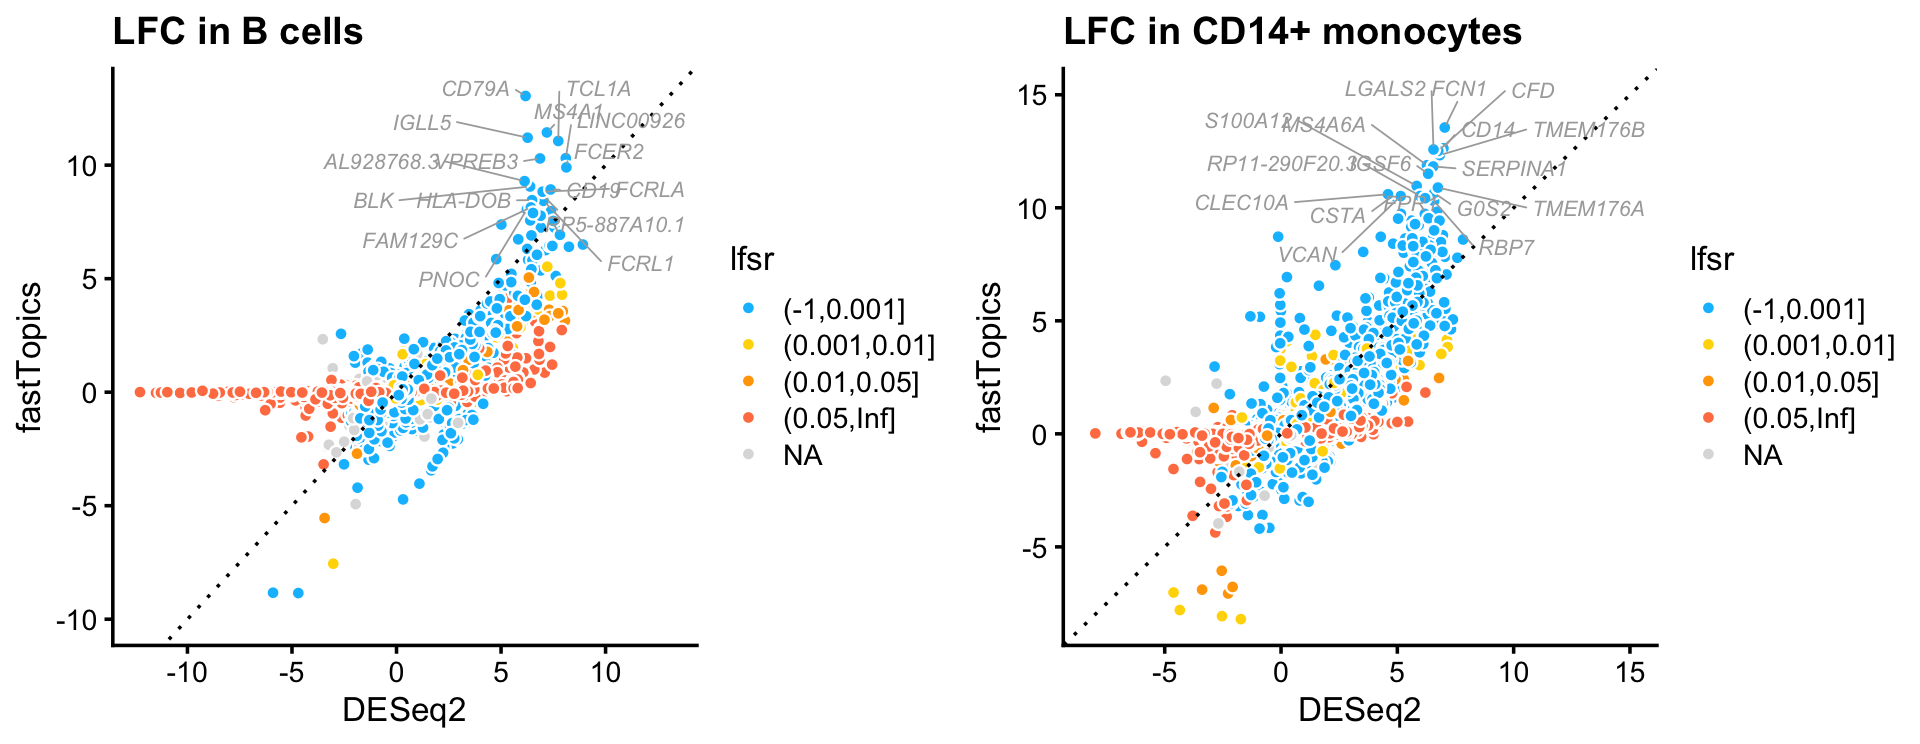
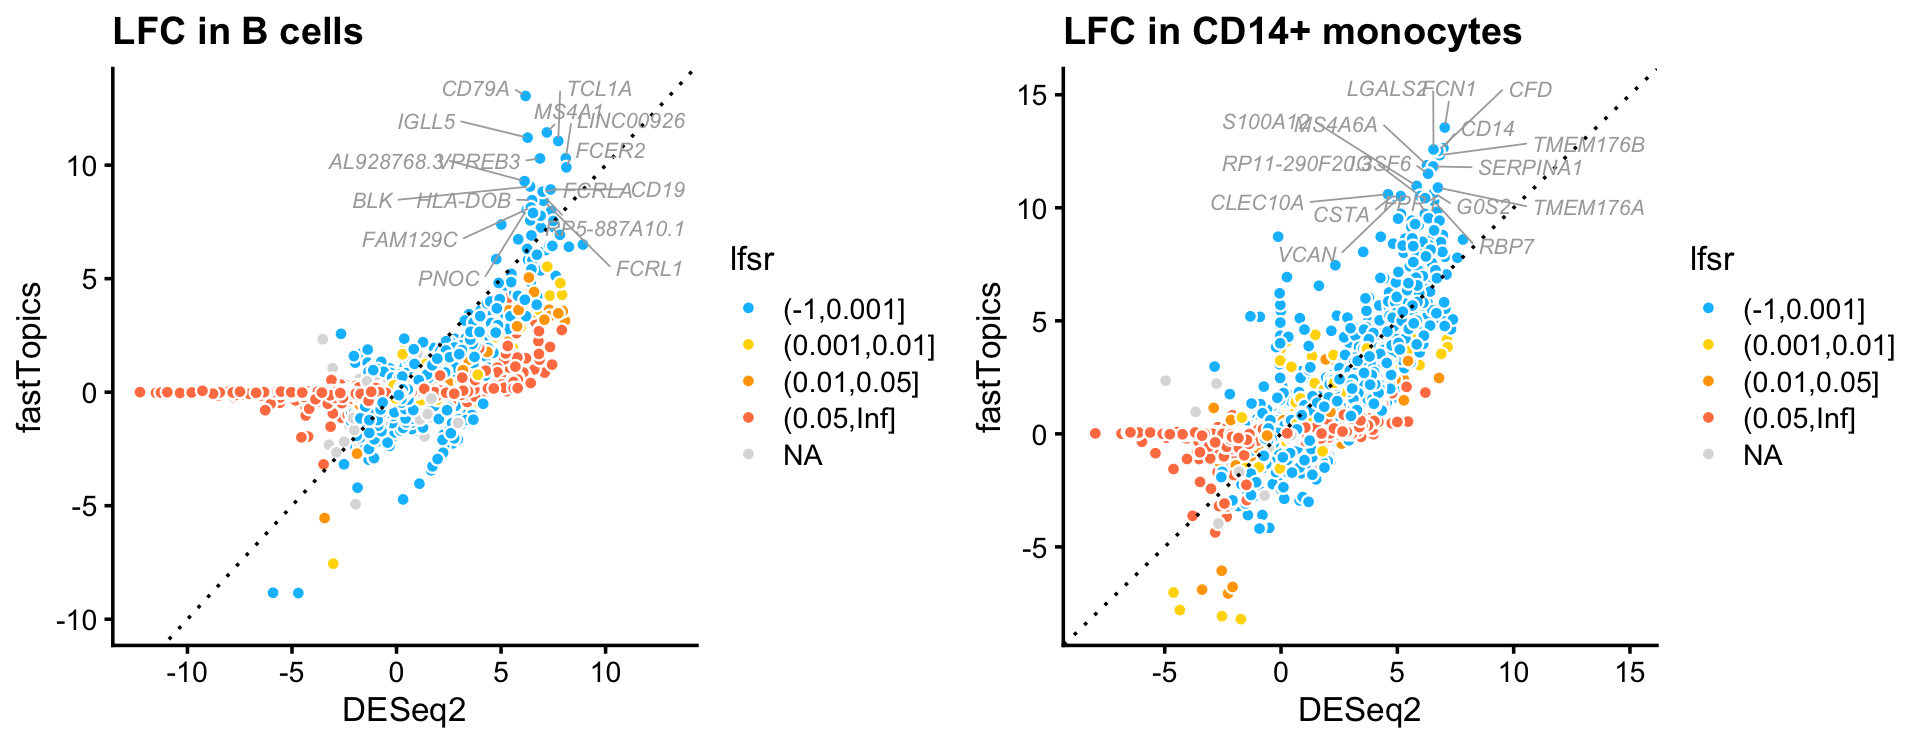
Updated the interactive volcano plots in de_analysis_purified_pbmc analysis.

diff --git a/docs/de_analysis_purified_pbmc.html b/docs/de_analysis_purified_pbmc.html
@@ -414,16 +414,16 @@ This reproducible <a href="http://rmarkdown.rstudio.com">R Markdown</a> analysis
 <div class="panel panel-default">
 <div class="panel-heading">
 <p class="panel-title">
-<a data-toggle="collapse" data-parent="#workflowr-checks" href="#strongRepositoryversionstrongahrefhttpsgithubcomstephenslabsinglecelltopicstree4aac42e3a7743981f7dd6d23c6e7d5aa73739eb9targetblank4aac42ea"> <span class="glyphicon glyphicon-ok text-success" aria-hidden="true"></span> <strong>Repository version:</strong> <a href="https://github.com/stephenslab/single-cell-topics/tree/4aac42e3a7743981f7dd6d23c6e7d5aa73739eb9" target="_blank">4aac42e</a> </a>
+<a data-toggle="collapse" data-parent="#workflowr-checks" href="#strongRepositoryversionstrongahrefhttpsgithubcomstephenslabsinglecelltopicstreee15c65593821120ed98f2652a42b4392e6584fd0targetblanke15c655a"> <span class="glyphicon glyphicon-ok text-success" aria-hidden="true"></span> <strong>Repository version:</strong> <a href="https://github.com/stephenslab/single-cell-topics/tree/e15c65593821120ed98f2652a42b4392e6584fd0" target="_blank">e15c655</a> </a>
 </p>
 </div>
[2 lines of base64/hex data omitted]
 <div class="panel-body">
 <p>
 Great! You are using Git for version control. Tracking code development and connecting the code version to the results is critical for reproducibility.
 </p>
 <p>
-The results in this page were generated with repository version <a href="https://github.com/stephenslab/single-cell-topics/tree/4aac42e3a7743981f7dd6d23c6e7d5aa73739eb9" target="_blank">4aac42e</a>. See the <em>Past versions</em> tab to see a history of the changes made to the R Markdown and HTML files.
+The results in this page were generated with repository version <a href="https://github.com/stephenslab/single-cell-topics/tree/e15c65593821120ed98f2652a42b4392e6584fd0" target="_blank">e15c655</a>. See the <em>Past versions</em> tab to see a history of the changes made to the R Markdown and HTML files.
 </p>
 <p>
 Note that you need to be careful to ensure that all relevant files for the analysis have been committed to Git prior to generating the results (you can use <code>wflow_publish</code> or <code>wflow_git_commit</code>). workflowr only checks the R Markdown file, but you know if there are other scripts or data files that it depends on. Below is the status of the Git repository when the results were generated:
@@ -446,7 +446,6 @@ Ignored files:
     Ignored:    output/pulseseq/rds/
 
 Untracked files:
-    Untracked:  .DS_Store
     Untracked:  analysis/de_analysis_detailed_look_cache/
     Untracked:  analysis/de_analysis_detailed_look_more_cache/
     Untracked:  plots/
@@ -488,6 +487,57 @@ Message
 </tr>
 </thead>
 <tbody>
+<tr>
+<td>
+Rmd
+</td>
+<td>
+<a href="https://github.com/stephenslab/single-cell-topics/blob/e15c65593821120ed98f2652a42b4392e6584fd0/analysis/de_analysis_purified_pbmc.Rmd" target="_blank">e15c655</a>
+</td>
+<td>
+Peter Carbonetto
+</td>
+<td>
+2021-12-10
+</td>
+<td>
+workflowr::wflow_publish(“de_analysis_purified_pbmc.Rmd”, verbose = TRUE)
+</td>
+</tr>
+<tr>
+<td>
+Rmd
+</td>
+<td>
+<a href="https://github.com/stephenslab/single-cell-topics/blob/ef4caa1e9b9a929cfe2a4662a71516a751a08939/analysis/de_analysis_purified_pbmc.Rmd" target="_blank">ef4caa1</a>
+</td>
+<td>
+Peter Carbonetto
+</td>
+<td>
+2021-12-10
+</td>
+<td>
+Small fix.
+</td>
+</tr>
+<tr>
+<td>
+html
+</td>
+<td>
+<a href="https://rawcdn.githack.com/stephenslab/single-cell-topics/82324193d37d909ff5cef954da09c518af9b6e0a/docs/de_analysis_purified_pbmc.html" target="_blank">8232419</a>
+</td>
+<td>
+Peter Carbonetto
+</td>
+<td>
+2021-12-10
+</td>
+<td>
+Revised the volcano plots in the de_analysis_purified_pbmc analysis.
+</td>
+</tr>
 <tr>
 <td>
 Rmd
@@ -1498,10 +1548,12 @@ Peter Carbonetto
 </div>
 </div>
 <p>Moving forward, when the two <em>z</em>-scores disagree, we use the one that is nearer to zero.</p>
-<pre class="r"><code>de             &lt;- de1[c(&quot;f0&quot;,&quot;postmean&quot;,&quot;z&quot;,&quot;lfsr&quot;)]
+<pre class="r"><code>de             &lt;- de1[c(&quot;f0&quot;,&quot;lower&quot;,&quot;postmean&quot;,&quot;upper&quot;,&quot;z&quot;,&quot;lfsr&quot;)]
 class(de)      &lt;- c(&quot;topic_model_de_analysis&quot;,&quot;list&quot;)
 i              &lt;- which(abs(de2$z) &lt; abs(de1$z))
+de$lower[i]    &lt;- de2$lower[i]
 de$postmean[i] &lt;- de2$postmean[i]
+de$upper[i]    &lt;- de2$upper[i]
 de$z[i]        &lt;- de2$z[i]
 de$lfsr[i]     &lt;- de$lfsr[i]</code></pre>
 </div>
@@ -1527,7 +1579,9 @@ rm(deseq2)</code></pre>
 <p>Since we filtered out a few lowly expressed genes before running DESeq2, we subset the fastTopics results to match up with DESeq2.</p>
 <pre class="r"><code>rows        &lt;- match(rownames(deseq$z),rownames(de$z))
 de$f0       &lt;- de$f0[rows]
+de$lower    &lt;- de$lower[rows,]
 de$postmean &lt;- de$postmean[rows,]
+de$upper    &lt;- de$upper[rows,]
 de$z        &lt;- de$z[rows,]
 de$lfsr     &lt;- de$lfsr[rows,]</code></pre>
 </div>
@@ -1663,6 +1717,17 @@ Date
 <tbody>
 <tr>
 <td>
+<a href="https://github.com/stephenslab/single-cell-topics/blob/82324193d37d909ff5cef954da09c518af9b6e0a/docs/figure/de_analysis_purified_pbmc.Rmd/bcells-z-scores-1.png" target="_blank">8232419</a>
+</td>
+<td>
+Peter Carbonetto
+</td>
+<td>
+2021-12-10
+</td>
+</tr>
+<tr>
+<td>
 <a href="https://github.com/stephenslab/single-cell-topics/blob/241361544a8108e4d291d6654673f7182f2bb60f/docs/figure/de_analysis_purified_pbmc.Rmd/bcells-z-scores-1.png" target="_blank">2413615</a>
 </td>
 <td>
@@ -1785,7 +1850,6 @@ Peter Carbonetto
   i &lt;- which(with(dat,zabs &gt; 0.5 | abs(postmean) &gt; 0.5))
   j &lt;- sample(which(with(dat,zabs &lt;= 1 &amp; abs(postmean) &lt;= 0.5)),100)
   dat &lt;- dat[c(i,j),]
-  print(nrow(dat))
   return(volcano_plot_ggplot_call(dat,plot.title,max.overlaps))
 }
 p1 &lt;- volcano_plot(de,k = &quot;k1&quot;,ymax = 150,labels = genes$symbol,ggplot_call = my_ggplot_call)
@@ -1818,6 +1882,17 @@ Date
 </tr>
 </thead>
 <tbody>
+<tr>
+<td>
+<a href="https://github.com/stephenslab/single-cell-topics/blob/82324193d37d909ff5cef954da09c518af9b6e0a/docs/figure/de_analysis_purified_pbmc.Rmd/volcano-plots-1.png" target="_blank">8232419</a>
+</td>
+<td>
+Peter Carbonetto
+</td>
+<td>
+2021-12-10
+</td>
+</tr>
 <tr>
 <td>
 <a href="https://github.com/stephenslab/single-cell-topics/blob/241361544a8108e4d291d6654673f7182f2bb60f/docs/figure/de_analysis_purified_pbmc.Rmd/volcano-plots-1.png" target="_blank">2413615</a>
@@ -1888,12 +1963,6 @@ Peter Carbonetto
 </table>
 </div>
 </div>
-<pre><code># [1] 5173
-# [1] 4691
-# [1] 4350
-# [1] 5101
-# [1] 6007
-# [1] 4043</code></pre>
 <p>These same results can also be explored in interactive volcano plots:</p>
 <pre class="r"><code>volcano_plotly(de,k = &quot;k1&quot;,ymax = 150,labels = genes$symbol,
                file = &quot;de_analysis_purified_pbmc_tcells.html&quot;,
@@ -1947,7 +2016,7 @@ volcano_plotly(de,k = &quot;k6&quot;,ymax = 200,labels = genes$symbol,
 # 
 # other attached packages:
 #  [1] cowplot_1.0.0               ggrepel_0.9.1              
-#  [3] ggplot2_3.3.5               fastTopics_0.6-94          
+#  [3] ggplot2_3.3.5               fastTopics_0.6-96          
 #  [5] DESeq2_1.33.5               SummarizedExperiment_1.16.1
 #  [7] DelayedArray_0.12.3         BiocParallel_1.18.1        
 #  [9] matrixStats_0.61.0          Biobase_2.46.0             
